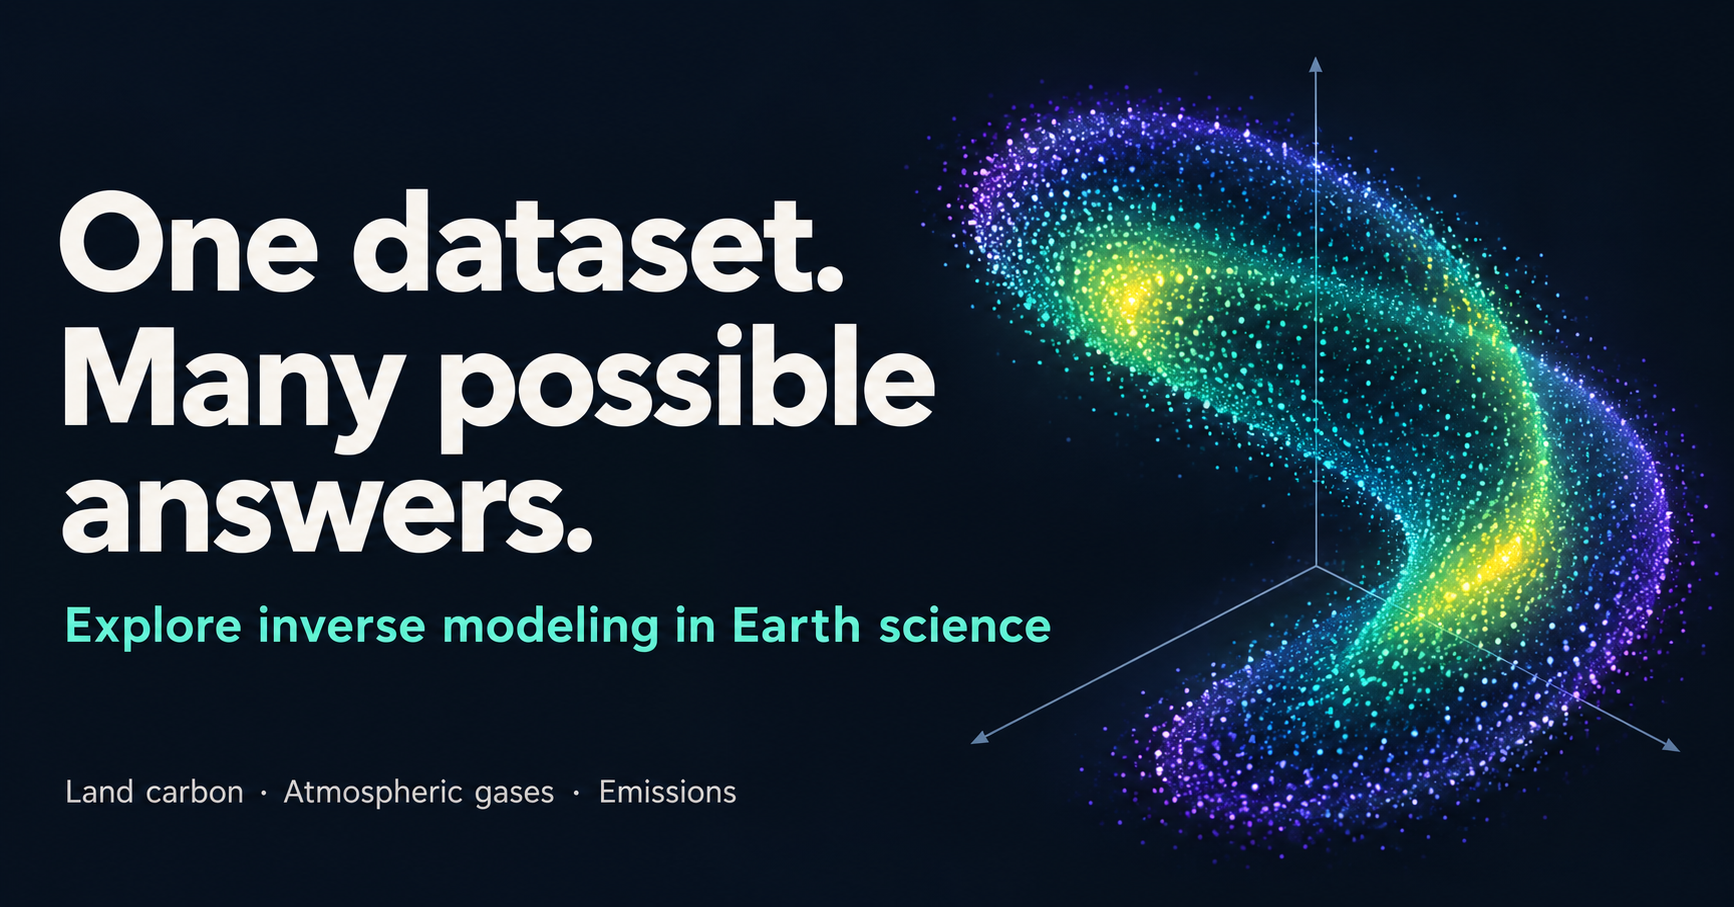
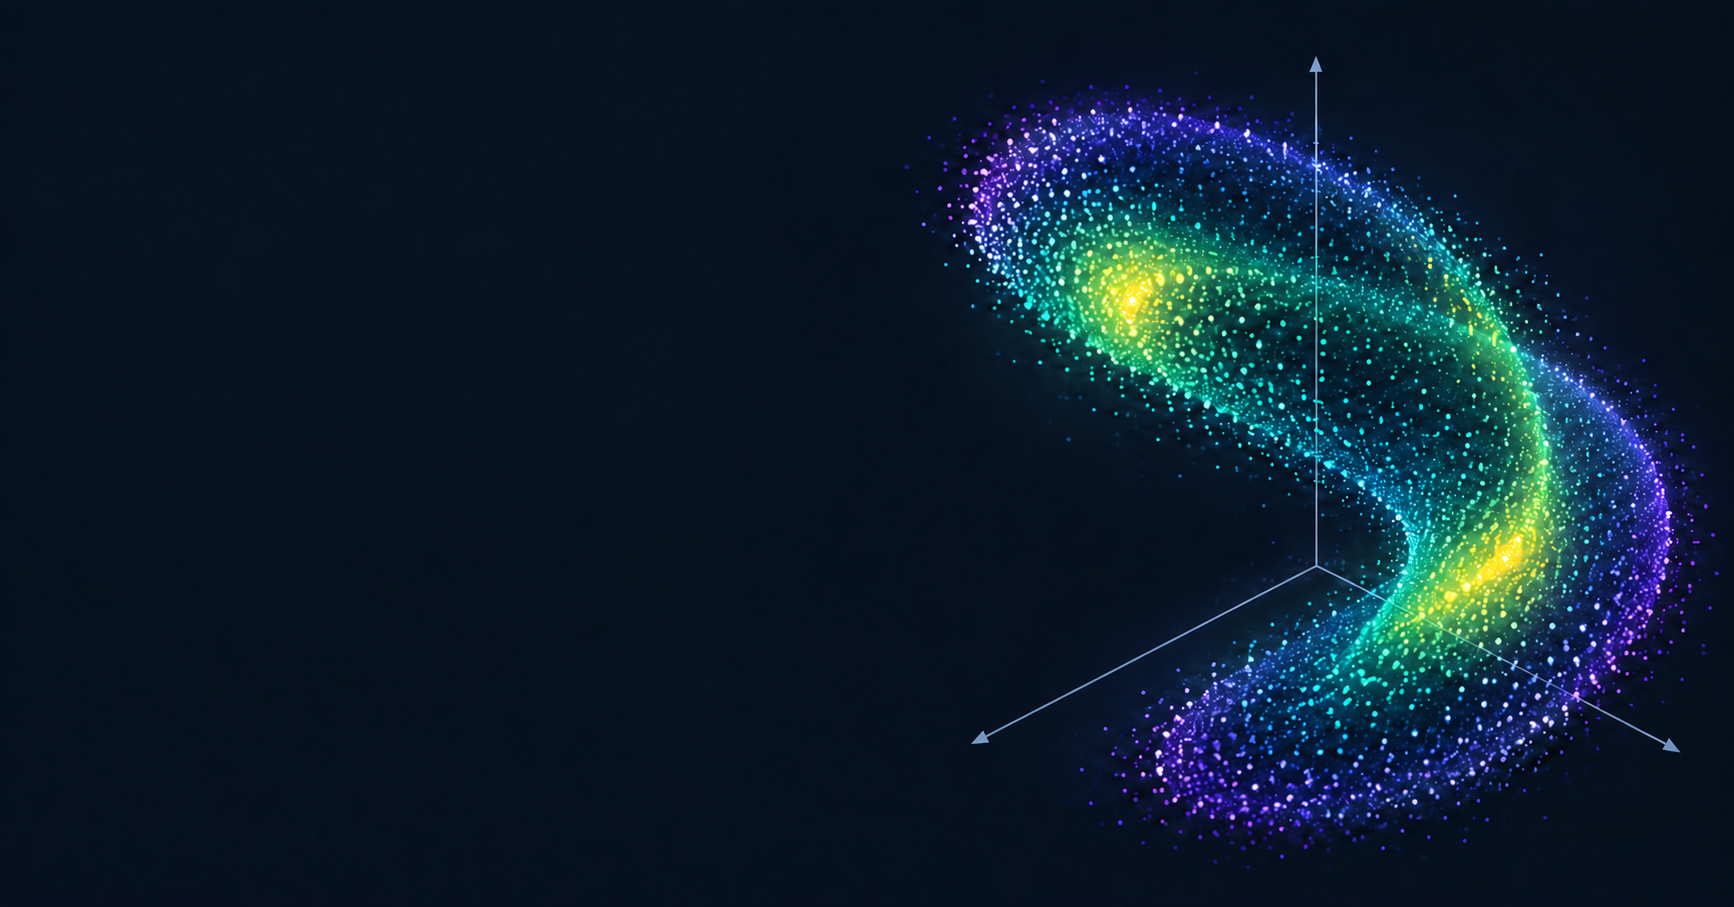
Remove text from the explorer sharing thumbnail

diff --git a/atmospheric-flux-inversion/index.html b/atmospheric-flux-inversion/index.html
@@ -5,16 +5,16 @@
 <meta property="og:title" content="Atmospheric Fluxes | Inverse Modeling Explorer">
 <meta property="og:description" content="Explore CO₂ fluxes and methane sources with a two-box atmosphere. See how concentration and isotope measurements constrain sources, mixing, and chemical loss.">
 <meta property="og:url" content="https://sudshu.github.io/atmospheric-flux-inversion/">
-<meta property="og:image" content="https://sudshu.github.io/inverse-modeling/og.png">
+<meta property="og:image" content="https://sudshu.github.io/inverse-modeling/og.png?v=textless">
 <meta property="og:image:type" content="image/png">
 <meta property="og:image:width" content="1734">
 <meta property="og:image:height" content="907">
-<meta property="og:image:alt" content="One dataset. Many possible answers. A conceptual colored 3D solution cloud illustrates inverse modeling in Earth science.">
+<meta property="og:image:alt" content="A luminous purple, green and yellow conceptual 3D solution cloud on a dark background, with faint axes and no text.">
 <meta name="twitter:card" content="summary_large_image">
 <meta name="twitter:title" content="Atmospheric Fluxes | Inverse Modeling Explorer">
 <meta name="twitter:description" content="Explore CO₂ fluxes and methane sources with a two-box atmosphere. See how concentration and isotope measurements constrain sources, mixing, and chemical loss.">
-<meta name="twitter:image" content="https://sudshu.github.io/inverse-modeling/og.png">
-<meta name="twitter:image:alt" content="One dataset. Many possible answers. Explore inverse modeling in Earth science.">
+<meta name="twitter:image" content="https://sudshu.github.io/inverse-modeling/og.png?v=textless">
+<meta name="twitter:image:alt" content="A luminous purple, green and yellow conceptual 3D solution cloud on a dark background, with faint axes and no text.">
 <style>
 :root{color-scheme:dark;--bg:#0a121d;--panel:#121e2d;--line:#2d4055;--text:#edf4fc;--muted:#b5c7db;--mint:#80e2cd;--gold:#ffdf93;--pink:#efadd8}
 *{box-sizing:border-box}body{margin:0;background:var(--bg);color:var(--text);font:16px/1.55 system-ui,-apple-system,sans-serif}a{color:var(--mint)}button,input,select{font:inherit}button,select{background:#1c3045;color:var(--text);border:1px solid var(--line);border-radius:7px;padding:8px 11px;min-height:40px}button{cursor:pointer}button:hover{background:#304b64}button:focus-visible,input:focus-visible,select:focus-visible,canvas:focus-visible,summary:focus-visible,a:focus-visible{outline:2px solid var(--mint);outline-offset:3px}button[aria-pressed=true]{background:#244d43;border-color:var(--mint)}button:disabled{opacity:.4;cursor:default}[hidden]{display:none!important}

diff --git a/trace-gas-retrieval/index.html b/trace-gas-retrieval/index.html
@@ -5,16 +5,16 @@
 <meta property="og:title" content="Trace-Gas Retrieval | Inverse Modeling Explorer">
 <meta property="og:description" content="Explore how methane amount, light path, and surface brightness can explain the same spectrum, and how added CO₂ measurements help distinguish them.">
 <meta property="og:url" content="https://sudshu.github.io/trace-gas-retrieval/">
-<meta property="og:image" content="https://sudshu.github.io/inverse-modeling/og.png">
+<meta property="og:image" content="https://sudshu.github.io/inverse-modeling/og.png?v=textless">
 <meta property="og:image:type" content="image/png">
 <meta property="og:image:width" content="1734">
 <meta property="og:image:height" content="907">
-<meta property="og:image:alt" content="One dataset. Many possible answers. A conceptual colored 3D solution cloud illustrates inverse modeling in Earth science.">
+<meta property="og:image:alt" content="A luminous purple, green and yellow conceptual 3D solution cloud on a dark background, with faint axes and no text.">
 <meta name="twitter:card" content="summary_large_image">
 <meta name="twitter:title" content="Trace-Gas Retrieval | Inverse Modeling Explorer">
 <meta name="twitter:description" content="Explore how methane amount, light path, and surface brightness can explain the same spectrum, and how added CO₂ measurements help distinguish them.">
-<meta name="twitter:image" content="https://sudshu.github.io/inverse-modeling/og.png">
-<meta name="twitter:image:alt" content="One dataset. Many possible answers. Explore inverse modeling in Earth science.">
+<meta name="twitter:image" content="https://sudshu.github.io/inverse-modeling/og.png?v=textless">
+<meta name="twitter:image:alt" content="A luminous purple, green and yellow conceptual 3D solution cloud on a dark background, with faint axes and no text.">
 <style>
 :root{color-scheme:dark;--bg:#0a121d;--panel:#121e2d;--line:#2d4055;--text:#edf4fc;--muted:#b5c7db;--mint:#80e2cd;--gold:#ffdf93;--pink:#efadd8}
 *{box-sizing:border-box}body{margin:0;background:var(--bg);color:var(--text);font:16px/1.55 system-ui,-apple-system,sans-serif}a{color:var(--mint)}button,input,select{font:inherit}button,select{background:#1c3045;color:var(--text);border:1px solid var(--line);border-radius:7px;padding:8px 11px;min-height:40px}button{cursor:pointer}button:hover{background:#304b64}button:focus-visible,input:focus-visible,select:focus-visible,canvas:focus-visible,summary:focus-visible,a:focus-visible{outline:2px solid var(--mint);outline-offset:3px}button[aria-pressed=true]{background:#244d43;border-color:var(--mint)}button:disabled{opacity:.4;cursor:default}[hidden]{display:none!important}

diff --git a/inverse-modeling/index.html b/inverse-modeling/index.html
@@ -5,16 +5,16 @@
 <meta property="og:title" content="Inverse Modeling Explorer">
 <meta property="og:description" content="One dataset can have many possible answers. Rotate solution spaces, compare predictions, and explore inverse modeling through land carbon, atmospheric gases, and emissions.">
 <meta property="og:url" content="https://sudshu.github.io/inverse-modeling/">
-<meta property="og:image" content="https://sudshu.github.io/inverse-modeling/og.png">
+<meta property="og:image" content="https://sudshu.github.io/inverse-modeling/og.png?v=textless">
 <meta property="og:image:type" content="image/png">
 <meta property="og:image:width" content="1734">
 <meta property="og:image:height" content="907">
-<meta property="og:image:alt" content="One dataset. Many possible answers. A conceptual colored 3D solution cloud illustrates inverse modeling in Earth science.">
+<meta property="og:image:alt" content="A luminous purple, green and yellow conceptual 3D solution cloud on a dark background, with faint axes and no text.">
 <meta name="twitter:card" content="summary_large_image">
 <meta name="twitter:title" content="Inverse Modeling Explorer">
 <meta name="twitter:description" content="One dataset can have many possible answers. Rotate solution spaces, compare predictions, and explore inverse modeling through land carbon, atmospheric gases, and emissions.">
-<meta name="twitter:image" content="https://sudshu.github.io/inverse-modeling/og.png">
-<meta name="twitter:image:alt" content="One dataset. Many possible answers. Explore inverse modeling in Earth science.">
+<meta name="twitter:image" content="https://sudshu.github.io/inverse-modeling/og.png?v=textless">
+<meta name="twitter:image:alt" content="A luminous purple, green and yellow conceptual 3D solution cloud on a dark background, with faint axes and no text.">
 <style>
 :root{color-scheme:dark;--bg:#0a121d;--panel:#121e2d;--line:#2d4055;--text:#edf4fc;--muted:#b5c7db;--mint:#80e2cd;--gold:#ffdf93;--pink:#efadd8}
 *{box-sizing:border-box}body{margin:0;background:var(--bg);color:var(--text);font:16px/1.55 system-ui,-apple-system,sans-serif}a{color:var(--mint)}button,input,select{font:inherit}button,select{background:#1c3045;color:var(--text);border:1px solid var(--line);border-radius:7px;padding:8px 11px;min-height:40px}button{cursor:pointer}button:hover{background:#304b64}button:focus-visible,input:focus-visible,select:focus-visible,canvas:focus-visible,summary:focus-visible,a:focus-visible{outline:2px solid var(--mint);outline-offset:3px}button[aria-pressed=true]{background:#244d43;border-color:var(--mint)}button:disabled{opacity:.4;cursor:default}[hidden]{display:none!important}

diff --git a/carbon-turnover/index.html b/carbon-turnover/index.html
@@ -6,14 +6,14 @@
 <meta property="og:title" content="Inverse Modeling Explorer">
 <meta property="og:description" content="One dataset can have many possible answers. Rotate solution spaces, compare predictions, and explore inverse modeling through land carbon, atmospheric gases, and emissions.">
 <meta property="og:url" content="https://sudshu.github.io/inverse-modeling/">
-<meta property="og:image" content="https://sudshu.github.io/inverse-modeling/og.png">
+<meta property="og:image" content="https://sudshu.github.io/inverse-modeling/og.png?v=textless">
 <meta property="og:image:type" content="image/png">
 <meta property="og:image:width" content="1734">
 <meta property="og:image:height" content="907">
-<meta property="og:image:alt" content="One dataset. Many possible answers. A conceptual colored 3D solution cloud illustrates inverse modeling in Earth science.">
+<meta property="og:image:alt" content="A luminous purple, green and yellow conceptual 3D solution cloud on a dark background, with faint axes and no text.">
 <meta name="twitter:card" content="summary_large_image">
 <meta name="twitter:title" content="Inverse Modeling Explorer">
 <meta name="twitter:description" content="One dataset can have many possible answers. Rotate solution spaces, compare predictions, and explore inverse modeling through land carbon, atmospheric gases, and emissions.">
-<meta name="twitter:image" content="https://sudshu.github.io/inverse-modeling/og.png">
-<meta name="twitter:image:alt" content="One dataset. Many possible answers. Explore inverse modeling in Earth science.">
+<meta name="twitter:image" content="https://sudshu.github.io/inverse-modeling/og.png?v=textless">
+<meta name="twitter:image:alt" content="A luminous purple, green and yellow conceptual 3D solution cloud on a dark background, with faint axes and no text.">
 </head><body><p>The explorer has a new home: <a href="/inverse-modeling/">Inverse Modeling Explorer</a>.</p></body></html>
